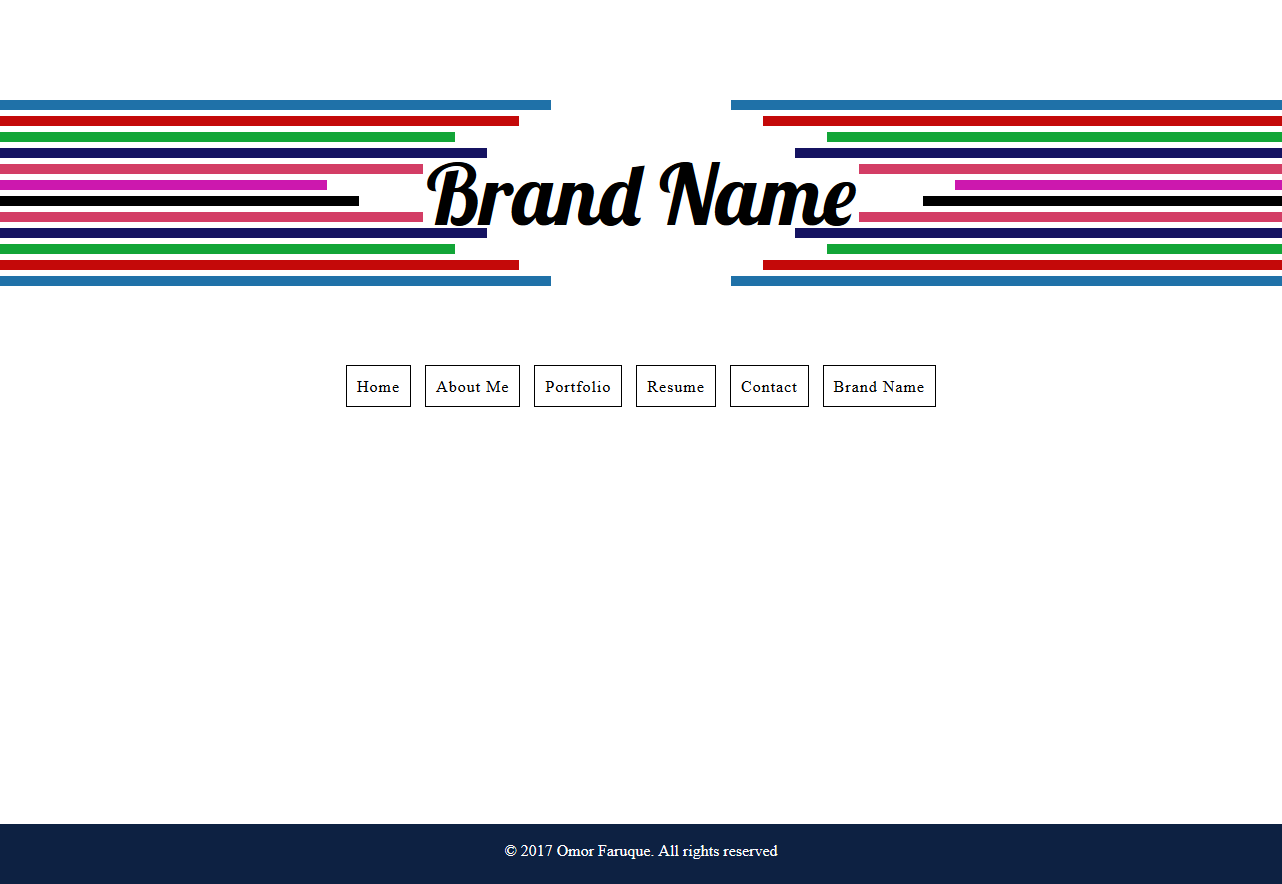
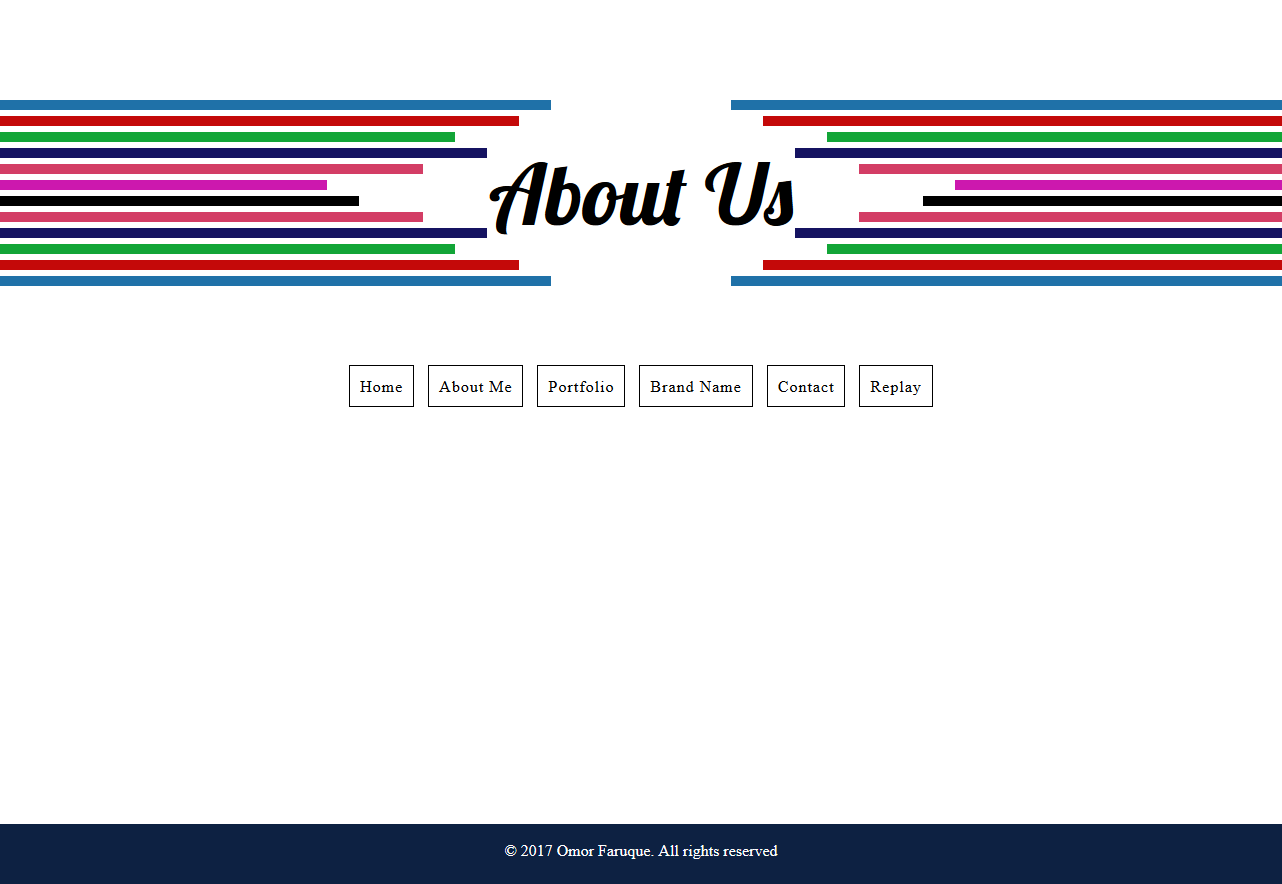
added the code page v12

Changed region(s): [[0.312, 0.1833, 0.6864, 0.2749], [0.2808, 0.4276, 0.7176, 0.4581]]

diff --git a/codes/pageHeader/pageHeader.html b/codes/pageHeader/pageHeader.html
@@ -52,10 +52,10 @@
             <div class="option" onclick="myfunction1(0)">Home</div>
             <div class="option" onclick="myfunction1(1)">About Me</div>
             <div class="option" onclick="myfunction1(2)">Portfolio</div>
-            <div class="option" onclick="myfunction1(3)">Replay</div>
+            <div class="option" onclick="myfunction1(3)">Brand Name</div>
             <div class="option" onclick="myfunction1(4)">Contact</div>
-            <div class="option" onclick="myfunction1(5)">Brand Name</div>
-            <div class="option" onclick="myfunction1(6)">Resume</div>
+            <div class="option" onclick="myfunction1(5)">Replay</div>
+          
         </div>
     </div>
     <!--End of Main body content-->

diff --git a/codes/pageHeader/scripts/scriptOne.js b/codes/pageHeader/scripts/scriptOne.js
@@ -42,7 +42,7 @@ window.onload = myfunction;
 function myfunction1(x){
     var src = document.getElementsByClassName("option");
     var dst = document.getElementById("page-title");
-    if(x===3){
+    if(x===5){
         location.reload();
     }
     else{
